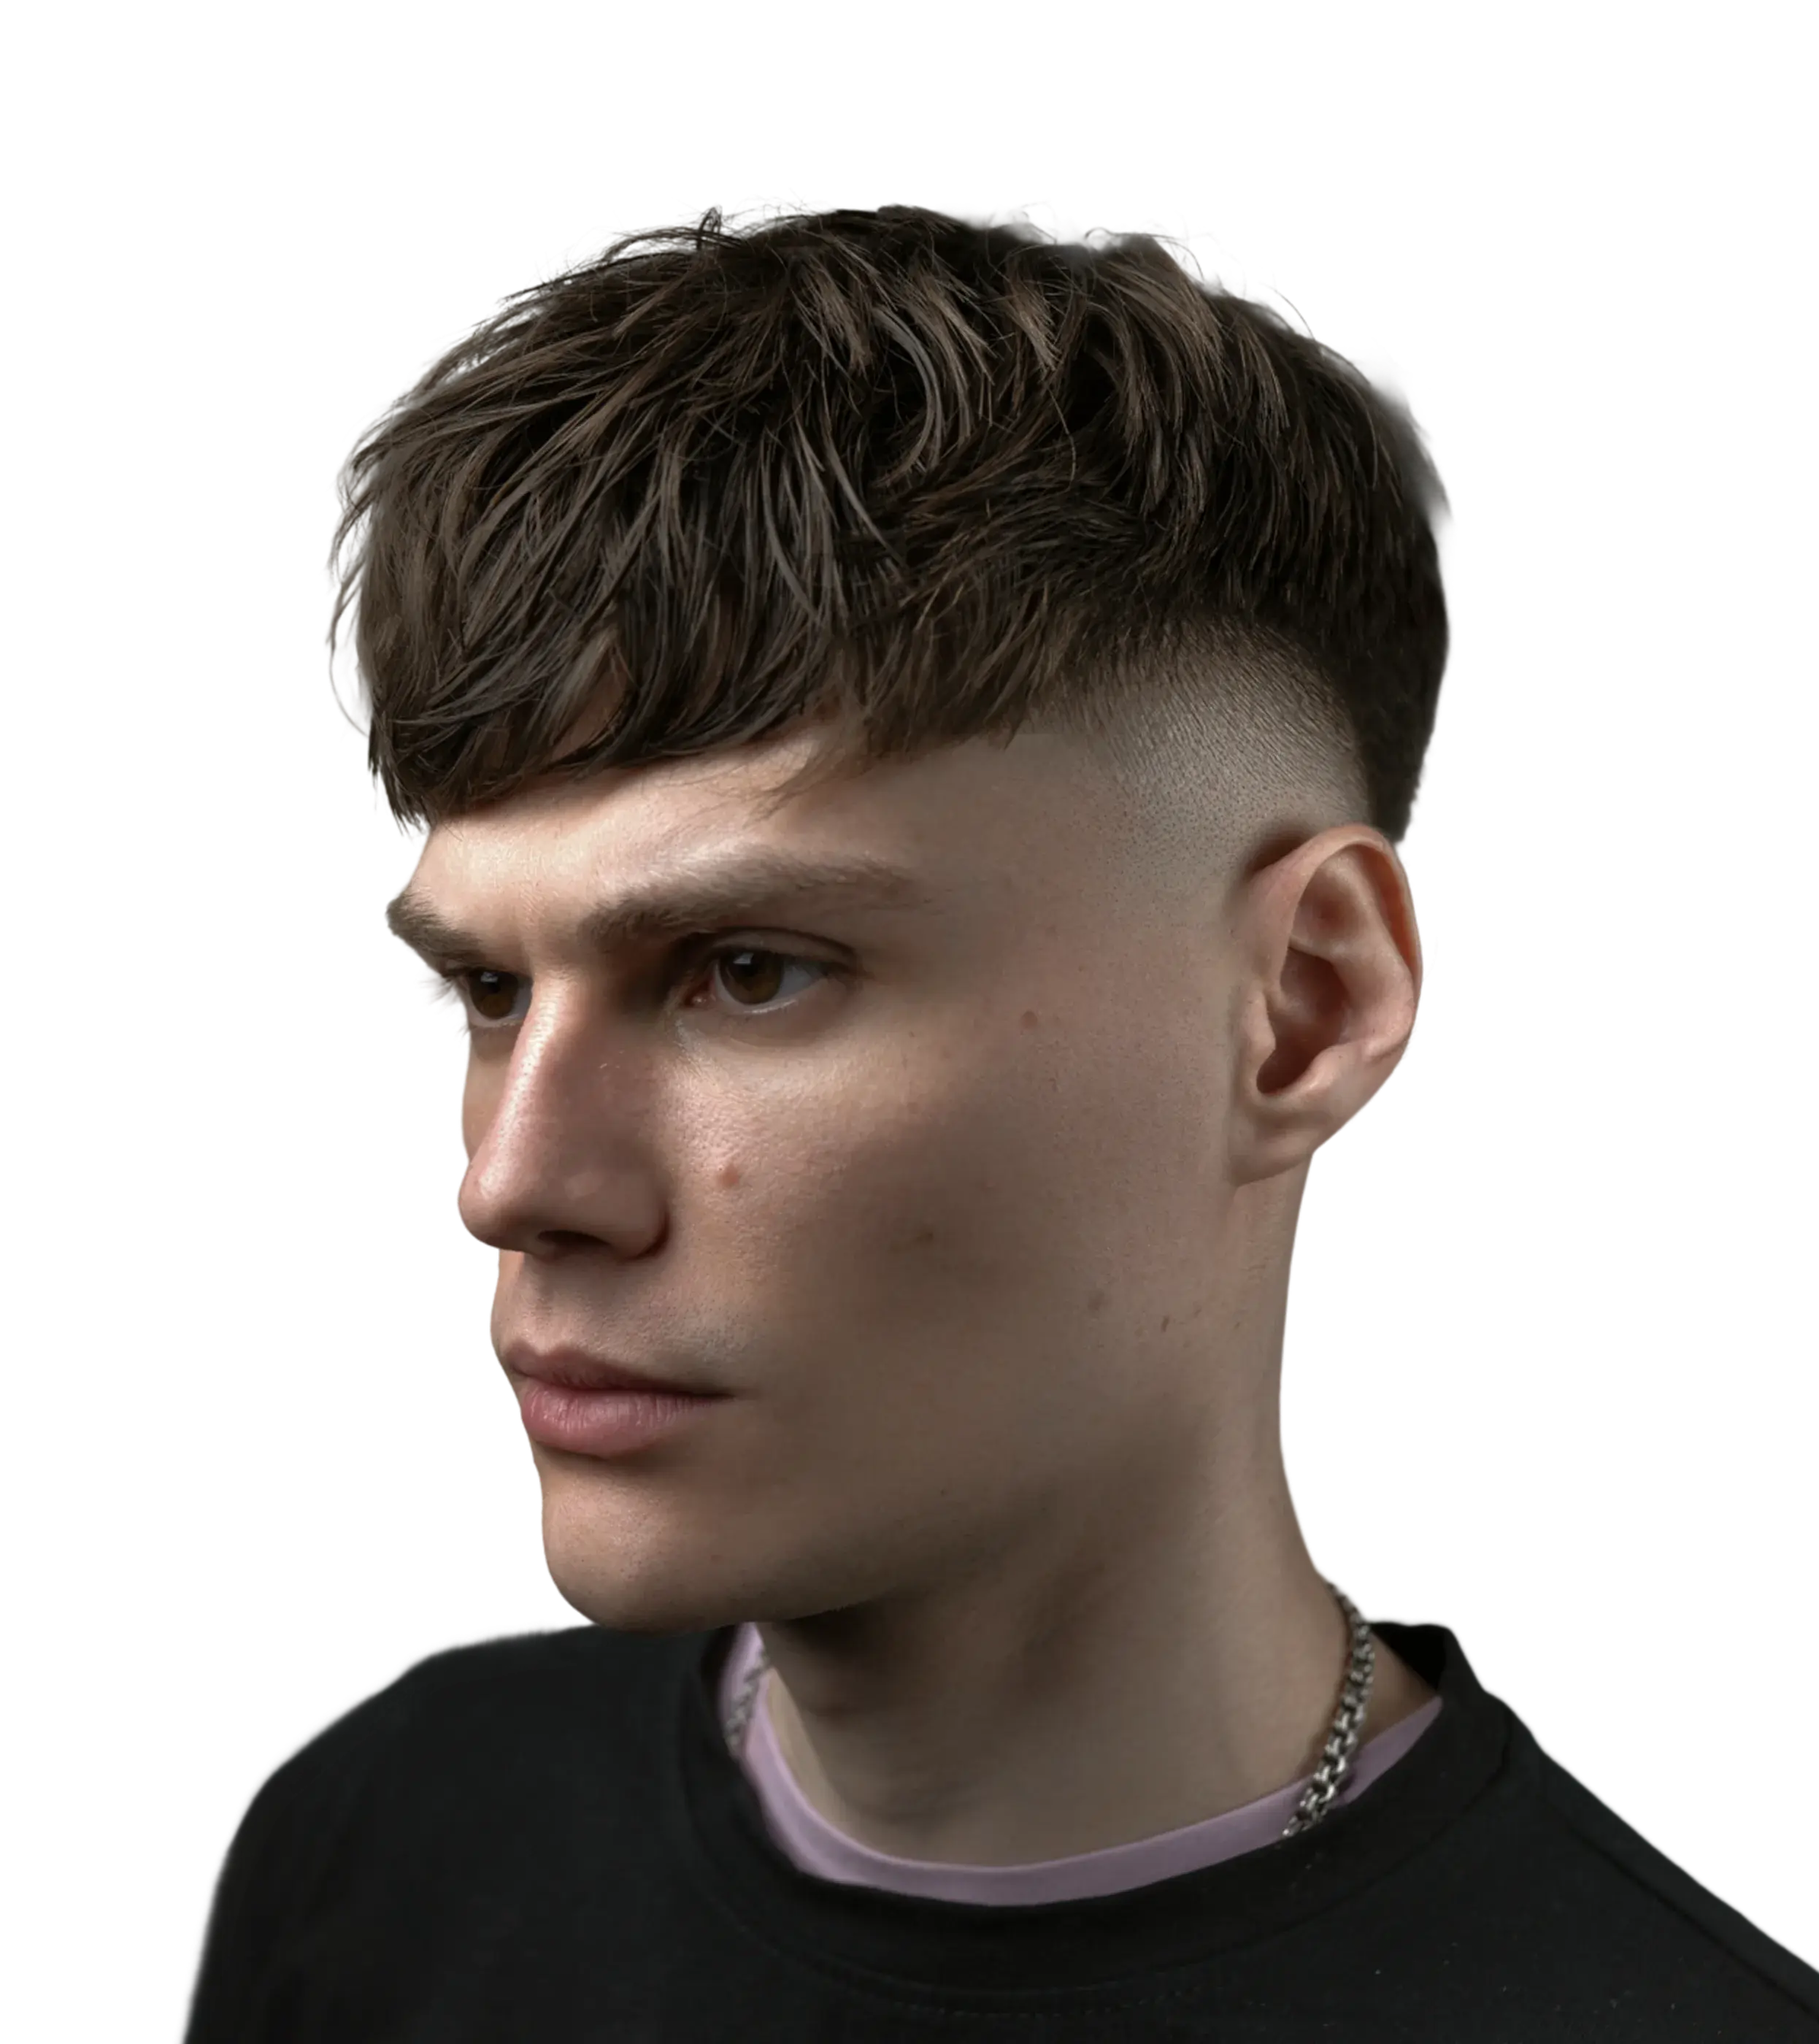
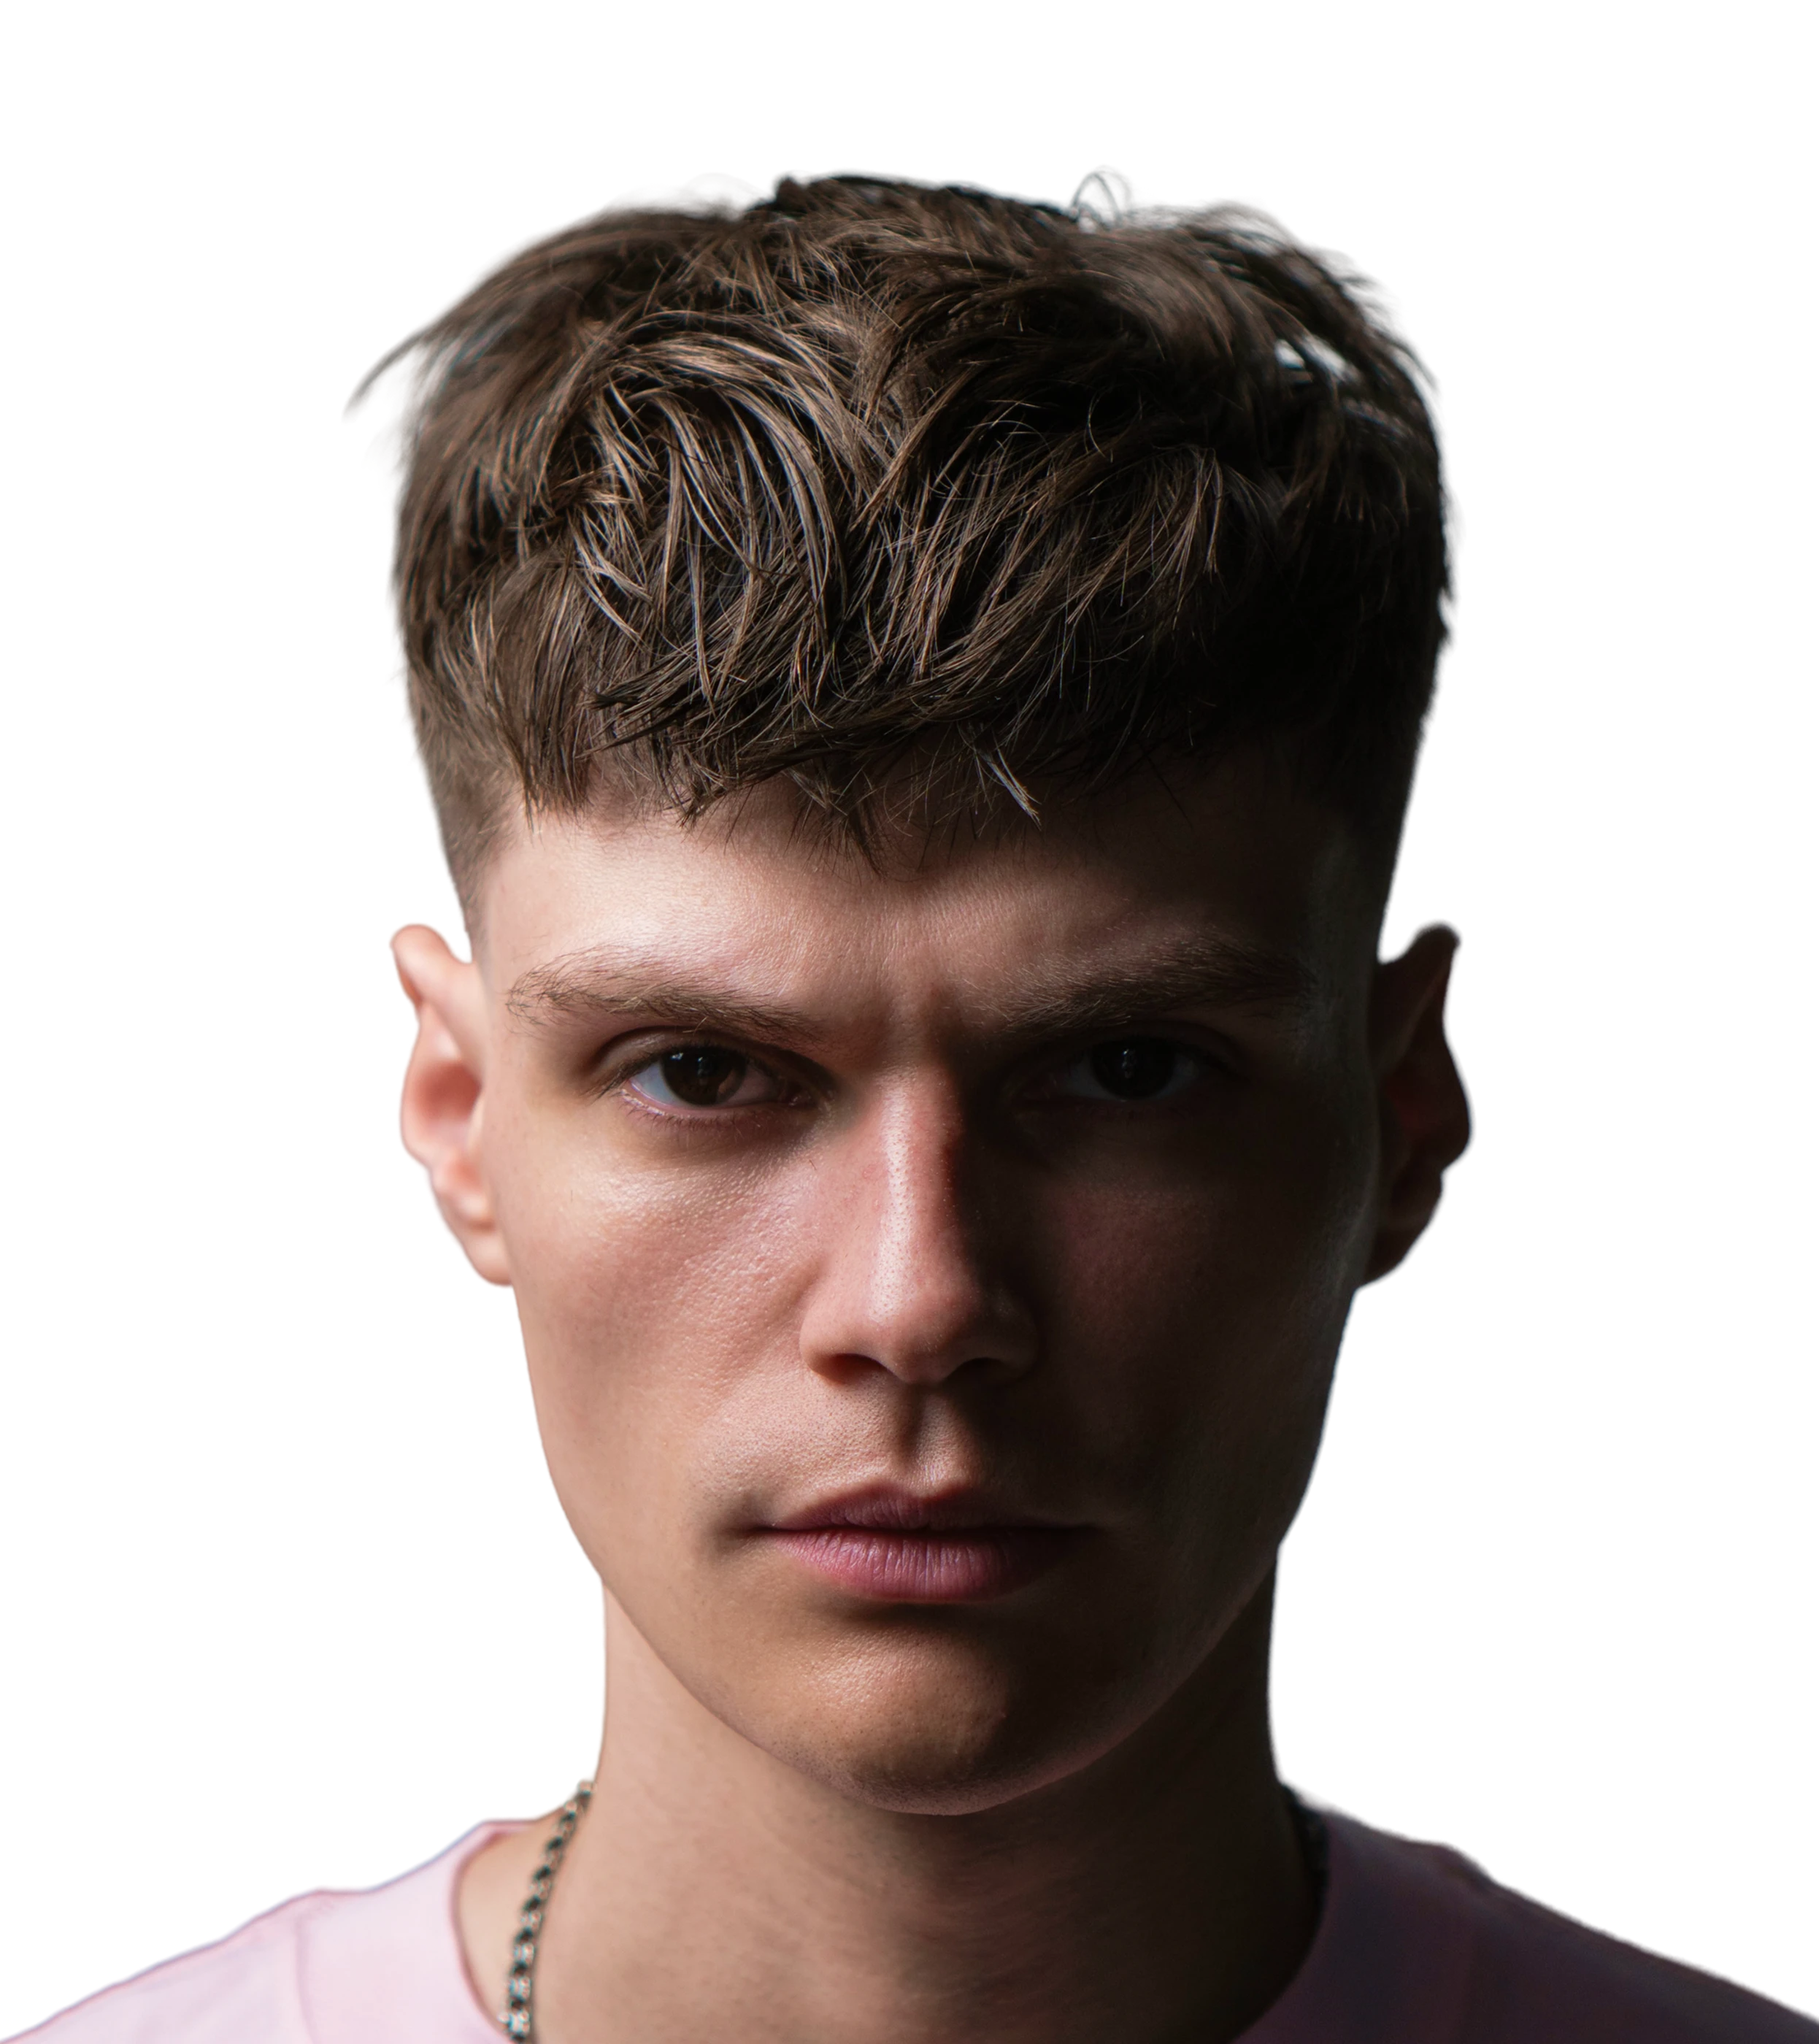
feat: update hero portrait and gradient

diff --git a/app/globals.css b/app/globals.css
@@ -50,7 +50,7 @@ main {
   min-height: 100dvh;
   overflow: hidden;
 
-  background: linear-gradient(135deg, #161618 0%, #646466 100%);
+  background: linear-gradient(315deg, #161618 0%, #646466 100%);
 }
 
 .hero__content {
